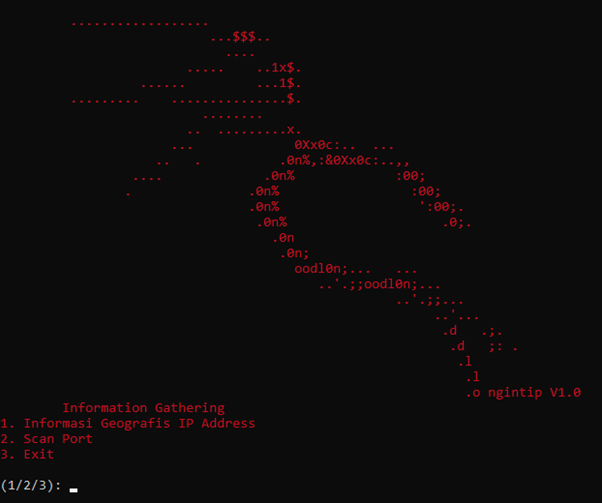
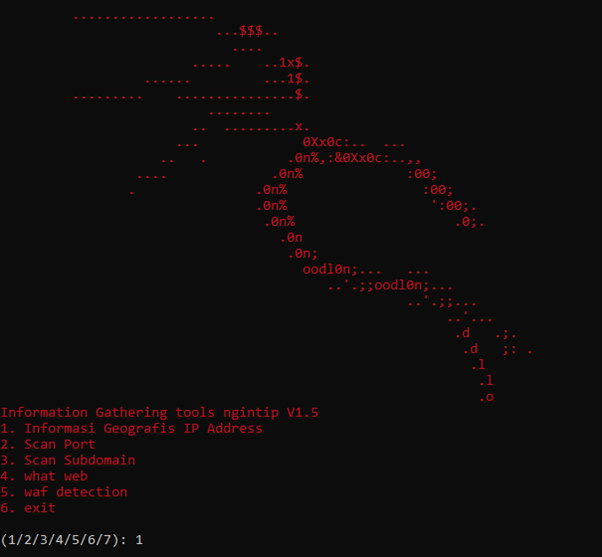
ngintipv1.5

diff --git a/main.py b/main.py
@@ -1,4 +1,4 @@
-from tkinter.tix import Form
+from tkinter import ttk
 from tools.color import cetak_teks_berwarna
 from tools.geo_info import print_info_geo_with_input
 from tools.port_scan import scan_port_with_input
@@ -68,14 +68,16 @@ while True:
             print("Perintah selesai.")
             sys.exit()
     elif jawaban == '4':
-        url =  input("\nEnter dmain untuk pemindaian wbsite") 
+        url =  input("\nEnter domain untuk pemindaian website: ") 
         scan_website(url)
+        pilihan_lanjut = input("\nApakah Anda ingin melanjutkan? (y/n): ")
         if pilihan_lanjut.lower() != 'y':
             print("Perintah selesai.")
             sys.exit()
     elif jawaban == '5':
-        url = input("\nEnter domain untuk pemindaiyan Waf")
+        url = input("\nEnter domain untuk pemindaian WAF: ")
         scan_waf(url)
+        pilihan_lanjut = input("\nApakah Anda ingin melanjutkan? (y/n): ")
         if pilihan_lanjut.lower() != 'y':
             print("Perintah selesai.")
             sys.exit()

diff --git a/tools/scan_waf.py b/tools/scan_waf.py
@@ -1,17 +1,17 @@
-from wafw00f.main import WafW00F
+from wafw00f.main import WAFW00F
 
 def scan_waf(url):
     print(f"Memindai WAF untuk website '{url}' menggunakan wafw00f...")
 
     try:
-        # Inisialisasi WafW00F dengan URL yang diberikan
-        waf = WafW00F(url)
+        # Inisialisasi WAFW00F dengan URL yang diberikan
+        waf = WAFW00F(url)
         
         # Lakukan pemindaian
         waf.identwaf()
         
-        # Mendapatkan hasil pemindaian
-        result = waf.result
+        # Dapatkan hasil pemindaian
+        result = waf.result_dict
         
         if result:
             print("Hasil pemindaian wafw00f:")
